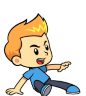
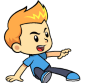
updated phaser jumping

diff --git a/PhaserDemo/PhaserDemo/game.js b/PhaserDemo/PhaserDemo/game.js
@@ -21,6 +21,7 @@ var Namespace;
                 this.probMoreVertical = 0.5;
                 this.probCoin = 0.9;
                 this.numItems = 12;
+                this.playerIsFalling = 0;
             }
             Game.prototype.preload = function () {
                 this.game.time.advancedTiming = true;
@@ -68,7 +69,7 @@ var Namespace;
                 this.player.body.gravity.y = 1500;
                 //properties when the player is ducked and standing, so we can use in update()
                 var playerDuckImg = this.game.cache.getImage('slide');
-                this.player['duckedDimensions'] = { width: playerDuckImg.width, height: playerDuckImg.height };
+                this.player['duckedDimensions'] = { width: playerDuckImg.width, height: playerDuckImg.height - 20 };
                 this.player['standDimensions'] = { width: this.player.width, height: this.player.height };
                 this.player.anchor.setTo(0.5, 1);
                 //the camera will follow the player in the world
@@ -113,6 +114,16 @@ var Namespace;
                     }
                     else if (this.cursors.down.isDown) {
                         this.playerDuck();
+                    }
+                    if (this.playerIsFalling == 1 && this.player.body.velocity.y > 0 && !this.player.body.touching.down) {
+                        this.player.loadTexture('jumpd');
+                        this.playerIsFalling = 2;
+                    }
+                    if (this.playerIsFalling == 2 && this.player.body.velocity.y == 0 && this.player.body.touching.down) {
+                        this.player.loadTexture('running');
+                        this.player.play('walk', 10, true);
+                        this.player.body.setSize(this.player.standDimensions.width, this.player.standDimensions.height);
+                        this.playerIsFalling = 0;
                     }
                     if (!this.cursors.down.isDown && this.player.isDucked && !this.pressingDown) {
                         //change image and update the body size for the physics engine
@@ -236,7 +247,7 @@ var Namespace;
                     //stop moving to the right
                     this.player.body.velocity.x = 0;
                     //change sprite image
-                    this.player.loadTexture('playerDead');
+                    this.player.loadTexture('dead');
                     //go to gameover after a few miliseconds
                     this.game.time.events.add(1500, this.gameOver, this);
                 }
@@ -268,6 +279,8 @@ var Namespace;
             };
             Game.prototype.playerJump = function () {
                 if (this.player.body.touching.down) {
+                    this.player.loadTexture('jumpu');
+                    this.playerIsFalling = 1;
                     this.player.body.velocity.y -= 700;
                 }
             };

diff --git a/PhaserDemo/PhaserDemo/game.ts b/PhaserDemo/PhaserDemo/game.ts
@@ -27,6 +27,7 @@ module Namespace.State {
         probCoin = 0.9;
         refGame;
         numItems = 12;
+        playerIsFalling = 0;
 
         preload() {
             this.game.time.advancedTiming = true;
@@ -88,7 +89,7 @@ module Namespace.State {
             //properties when the player is ducked and standing, so we can use in update()
             var playerDuckImg = this.game.cache.getImage('slide');
 
-            this.player['duckedDimensions'] = { width: playerDuckImg.width, height: playerDuckImg.height };
+            this.player['duckedDimensions'] = { width: playerDuckImg.width, height: playerDuckImg.height  - 20};
             this.player['standDimensions'] = { width: this.player.width, height: this.player.height };
             this.player.anchor.setTo(0.5, 1);
 
@@ -100,7 +101,7 @@ module Namespace.State {
 
             this.score_label = this.game.add.text(0, 0, '0', { font: '24px Arial', fill: '#000' });
 
-            this.score = 0;                
+            this.score = 0;
 
             this.pause_label = this.game.add.text(this.w - 100, 20, 'Pause', { font: '24px Arial', fill: '#000' });
             this.pause_label.inputEnabled = true;
@@ -148,6 +149,18 @@ module Namespace.State {
                 } else if (this.cursors.down.isDown) {
                     this.playerDuck();
                 }
+
+                if (this.playerIsFalling == 1 && this.player.body.velocity.y > 0 && !this.player.body.touching.down ) {
+                    this.player.loadTexture('jumpd');
+                    this.playerIsFalling = 2;
+                }
+
+                if (this.playerIsFalling == 2 && this.player.body.velocity.y == 0 && this.player.body.touching.down) {
+                    this.player.loadTexture('running');
+                    this.player.play('walk', 10, true);
+                    this.player.body.setSize(this.player.standDimensions.width, this.player.standDimensions.height);
+                    this.playerIsFalling = 0;
+                }                
 
                 if (!this.cursors.down.isDown && this.player.isDucked && !this.pressingDown) {
                     //change image and update the body size for the physics engine
@@ -291,7 +304,7 @@ module Namespace.State {
                 this.player.body.velocity.x = 0;
 
                 //change sprite image
-                this.player.loadTexture('playerDead');
+                this.player.loadTexture('dead');
 
                 //go to gameover after a few miliseconds
                 this.game.time.events.add(1500, this.gameOver, this);
@@ -330,6 +343,8 @@ module Namespace.State {
 
         playerJump() {
             if (this.player.body.touching.down) {
+                this.player.loadTexture('jumpu');
+                this.playerIsFalling = 1;
                 this.player.body.velocity.y -= 700;
             }
         }

diff --git a/PhaserDemo/PhaserDemo/preloader.js b/PhaserDemo/PhaserDemo/preloader.js
@@ -30,6 +30,9 @@ var Namespace;
                 this.load.spritesheet('running', 'assets/images/running_s.png', 70, 95);
                 this.load.spritesheet('jump', 'assets/images/jumping_s.png', 76, 96);
                 this.load.image('slide', 'assets/images/slide_s.png');
+                this.load.image('jumpu', 'assets/images/jumping_su.png');
+                this.load.image('jumpd', 'assets/images/jumping_sd.png');
+                this.load.image('dead', 'assets/images/dead.png');
             };
             Preloader.prototype.create = function () {
                 this.loadingBar.setFillPercent(100);

diff --git a/PhaserDemo/PhaserDemo/preloader.ts b/PhaserDemo/PhaserDemo/preloader.ts
@@ -20,6 +20,9 @@
             this.load.spritesheet('running', 'assets/images/running_s.png', 70, 95);
             this.load.spritesheet('jump', 'assets/images/jumping_s.png', 76, 96);
             this.load.image('slide', 'assets/images/slide_s.png');
+            this.load.image('jumpu', 'assets/images/jumping_su.png');
+            this.load.image('jumpd', 'assets/images/jumping_sd.png');
+            this.load.image('dead', 'assets/images/dead.png');
         }
 
         create() {
